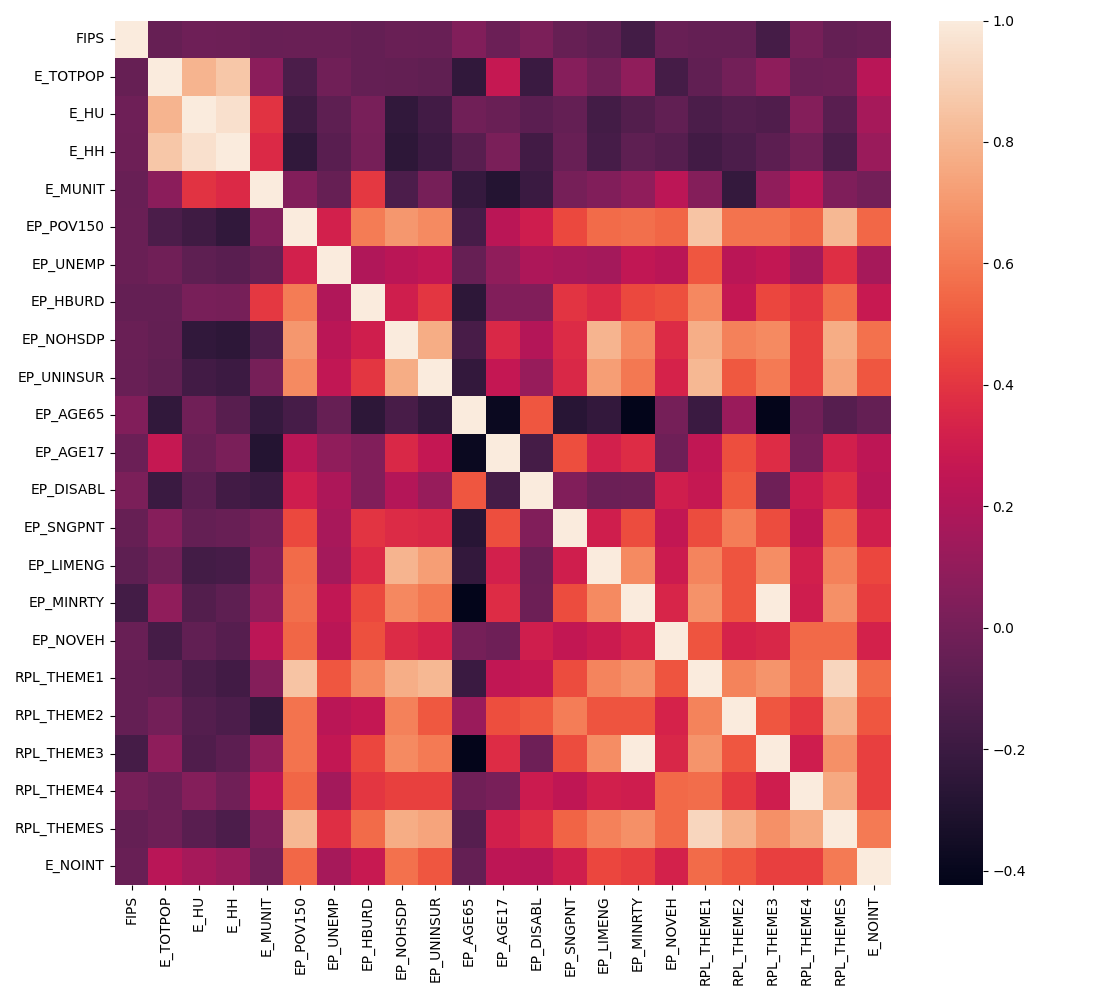
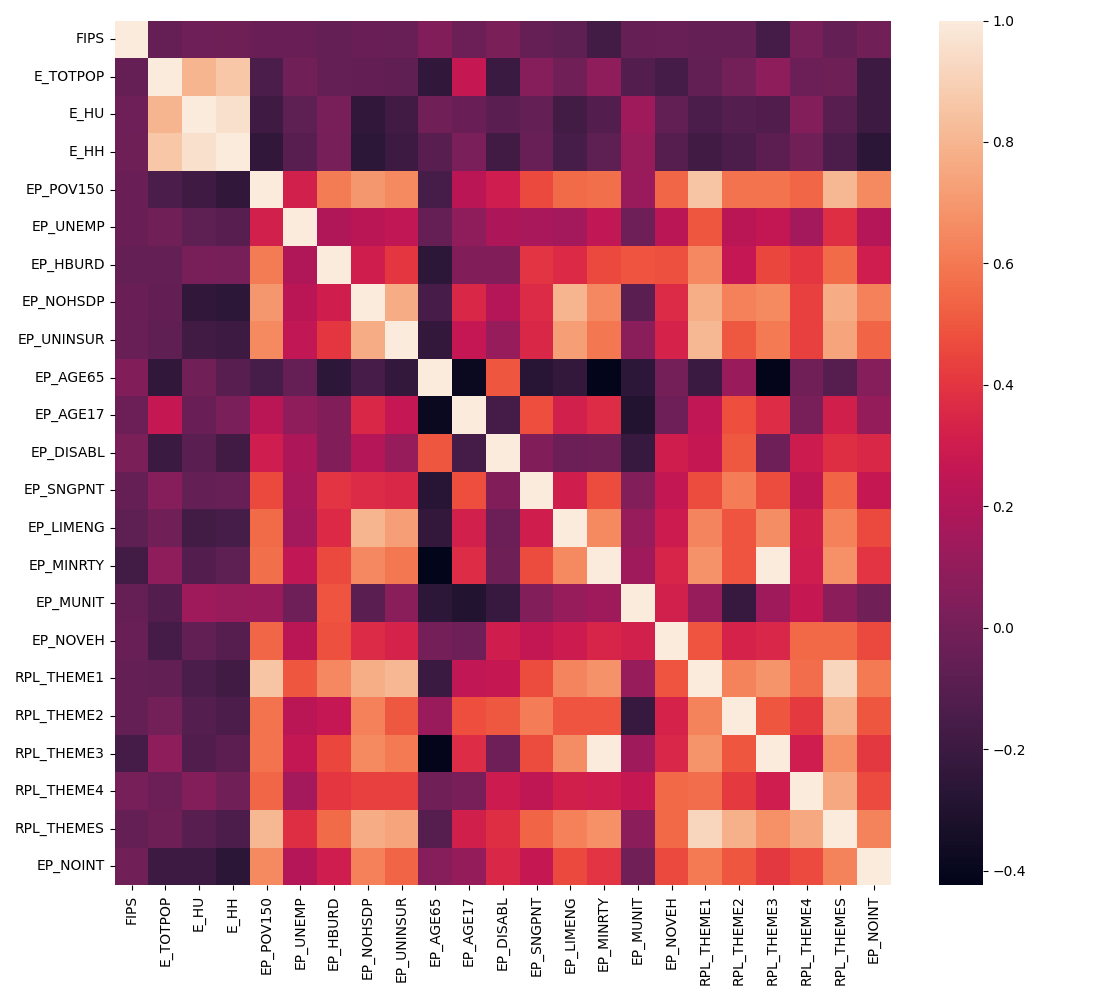
use percentage (EP) in stead of counts (E) in svi data

diff --git a/notebooks/utils.py b/notebooks/utils.py
@@ -4,8 +4,8 @@ data_dict = {
             "E_TOTPOP": "E_HU",
             "EP_MINRTY": "RPL_THEMES",
             "EP_NOHSDP": "EP_POV150",
-            "E_NOINT": "EP_POV150",
-            "E_MUNIT": "EP_HBURD",
+            "EP_NOINT": "EP_POV150",
+            "EP_MUNIT": "EP_HBURD",
         },
         "secondary": {
             "E_HH": "E_TOTPOP",
@@ -36,7 +36,8 @@ data_dict = {
             "E_TOTPOP": "The estimated total population of the geographical region.",
             "E_HU": "The estimated total number of housing units in the area.",
             "E_HH": "The estimated number of households in the area.",
-            "E_MUNIT": "The estimated number of housing units in a multi-unit structure.",
+            "EP_MUNIT": "The estimated percentage of housing units in a multi-unit structure.",
+            "EP_NOINT": "The estimated percentage of households without an internet subscription.",
             "EP_POV150": "The estimated percentage of the population living at 150% of the poverty level or below.",
             "EP_UNEMP": "The estimated percentage of the labor force that is unemployed.",
             "EP_HBURD": "The estimated percentage of households with housing cost burdens (defined as spending more than 30% of income on housing).",
@@ -54,7 +55,6 @@ data_dict = {
             "RPL_THEME3": "Percentile ranking for Racial and Ethnic Minority Status theme.",
             "RPL_THEME4": "Percentile ranking for Housing Type/ Transportation theme.",
             "RPL_THEMES": "Overall percentile ranking.",
-            "E_NOINT": "The estimated number of households without an internet subscription.",
         }
     },
     "climate_exposure_ca": {

diff --git a/data/dataset_cdc_atsdr_svi_tx.md b/data/dataset_cdc_atsdr_svi_tx.md
@@ -26,7 +26,8 @@
 | `E_TOTPOP` | The estimated total population of the geographical region. |
 | `E_HU` | The estimated total number of housing units in the area. |
 | `E_HH` | The estimated number of households in the area. |
-| `E_MUNIT` | The estimated number of housing units in a multi-unit structure. |
+| `EP_MUNIT` | The estimated percentage of housing units in a multi-unit structure. |
+| `EP_NOINT` | The estimated percentage of households without an internet subscription. |
 | `EP_POV150` | The estimated percentage of the population living at 150% of the poverty level or below. |
 | `EP_UNEMP` | The estimated percentage of the labor force that is unemployed. |
 | `EP_HBURD` | The estimated percentage of households with housing cost burdens (defined as spending more than 30% of income on housing). |
@@ -44,7 +45,6 @@
 | `RPL_THEME3` | Percentile ranking for Racial and Ethnic Minority Status theme. |
 | `RPL_THEME4` | Percentile ranking for Housing Type/ Transportation theme. |
 | `RPL_THEMES` | Overall percentile ranking. |
-| `E_NOINT` | The estimated number of households without an internet subscription. |
 
 # Correlations
 
@@ -52,13 +52,13 @@
 
 # Sample
 
-|       FIPS |   E_TOTPOP |   E_HU |   E_HH |   E_MUNIT |   EP_POV150 |   EP_UNEMP |   EP_HBURD |   EP_NOHSDP |   EP_UNINSUR |   EP_AGE65 |   EP_AGE17 |   EP_DISABL |   EP_SNGPNT |   EP_LIMENG |   EP_MINRTY |   EP_NOVEH |   RPL_THEME1 |   RPL_THEME2 |   RPL_THEME3 |   RPL_THEME4 |   RPL_THEMES |   E_NOINT |
-|-----------:|-----------:|-------:|-------:|----------:|------------:|-----------:|-----------:|------------:|-------------:|-----------:|-----------:|------------:|------------:|------------:|------------:|-----------:|-------------:|-------------:|-------------:|-------------:|-------------:|----------:|
-| 4.8002e+10 |       4958 |   2411 |   1779 |        44 |        24.7 |        8.2 |       19.3 |         8.7 |         11.3 |       18.6 |       26   |        20.6 |         9.2 |         1.3 |        23.1 |        2.2 |       0.45   |       0.828  |       0.1354 |       0.8482 |       0.6448 |      1115 |
-| 4.8002e+10 |       4867 |    100 |     81 |         0 |         0   |        0   |        8.6 |        26.9 |         12.7 |        1.9 |        2.4 |         0   |         8.6 |         1.4 |        69.2 |        0   |       0.1415 |       0.0265 |       0.6124 |       0.3242 |       0.1244 |        14 |
-| 4.8002e+10 |       4397 |   1701 |   1394 |       130 |        30.6 |        4   |       25.3 |        14.2 |         13.5 |       15.7 |       29.3 |        10.7 |        12.5 |         5.9 |        60.2 |        5.9 |       0.5069 |       0.8672 |       0.5285 |       0.9126 |       0.7667 |      1022 |
-| 4.8002e+10 |       4704 |   2093 |   1622 |        69 |        40.6 |        3.5 |       24.9 |        27.2 |         17   |       17.4 |       22.9 |        14.8 |         5.4 |         0.6 |        37   |        8.1 |       0.6418 |       0.4335 |       0.2849 |       0.8012 |       0.6279 |      1196 |
-| 4.8002e+10 |       2497 |   1041 |    809 |        53 |        25.2 |        3.2 |       43.8 |        23.3 |         28.2 |       12.8 |       32.4 |        19.8 |        11.5 |         7.6 |        79.3 |        8.3 |       0.7482 |       0.9645 |       0.7063 |       0.9383 |       0.9363 |       718 |
+|       FIPS |   E_TOTPOP |   E_HU |   E_HH |   EP_POV150 |   EP_UNEMP |   EP_HBURD |   EP_NOHSDP |   EP_UNINSUR |   EP_AGE65 |   EP_AGE17 |   EP_DISABL |   EP_SNGPNT |   EP_LIMENG |   EP_MINRTY |   EP_MUNIT |   EP_NOVEH |   RPL_THEME1 |   RPL_THEME2 |   RPL_THEME3 |   RPL_THEME4 |   RPL_THEMES |   EP_NOINT |
+|-----------:|-----------:|-------:|-------:|------------:|-----------:|-----------:|------------:|-------------:|-----------:|-----------:|------------:|------------:|------------:|------------:|-----------:|-----------:|-------------:|-------------:|-------------:|-------------:|-------------:|-----------:|
+| 4.8002e+10 |       4958 |   2411 |   1779 |        24.7 |        8.2 |       19.3 |         8.7 |         11.3 |       18.6 |       26   |        20.6 |         9.2 |         1.3 |        23.1 |        1.8 |        2.2 |       0.45   |       0.828  |       0.1354 |       0.8482 |       0.6448 |       22.7 |
+| 4.8002e+10 |       4867 |    100 |     81 |         0   |        0   |        8.6 |        26.9 |         12.7 |        1.9 |        2.4 |         0   |         8.6 |         1.4 |        69.2 |        0   |        0   |       0.1415 |       0.0265 |       0.6124 |       0.3242 |       0.1244 |        5.2 |
+| 4.8002e+10 |       4397 |   1701 |   1394 |        30.6 |        4   |       25.3 |        14.2 |         13.5 |       15.7 |       29.3 |        10.7 |        12.5 |         5.9 |        60.2 |        7.6 |        5.9 |       0.5069 |       0.8672 |       0.5285 |       0.9126 |       0.7667 |       23.6 |
+| 4.8002e+10 |       4704 |   2093 |   1622 |        40.6 |        3.5 |       24.9 |        27.2 |         17   |       17.4 |       22.9 |        14.8 |         5.4 |         0.6 |        37   |        3.3 |        8.1 |       0.6418 |       0.4335 |       0.2849 |       0.8012 |       0.6279 |       25.9 |
+| 4.8002e+10 |       2497 |   1041 |    809 |        25.2 |        3.2 |       43.8 |        23.3 |         28.2 |       12.8 |       32.4 |        19.8 |        11.5 |         7.6 |        79.3 |        5.1 |        8.3 |       0.7482 |       0.9645 |       0.7063 |       0.9383 |       0.9363 |       31.1 |
 
 
 Generated with `notebooks/201_make_data_dict.ipynb`.
